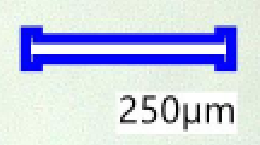
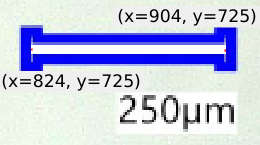
Update readme

diff --git a/README.md b/README.md
@@ -47,9 +47,8 @@ pip install -r requirements.txt
 
      - Use the coordinate system provided by the script to measure the scale bar's pixel width.
      ![scale-bar](screenshots/ScaleBar.png)
-     ![measuring](screenshots/Measuring.png)
 
-     - Update the `config.json` file with this measurement to ensure accurate data extraction.
+     - Update the `config.json` file with the measurement to ensure accurate data extraction.
      
      ![configuring](screenshots/config.png)
      
